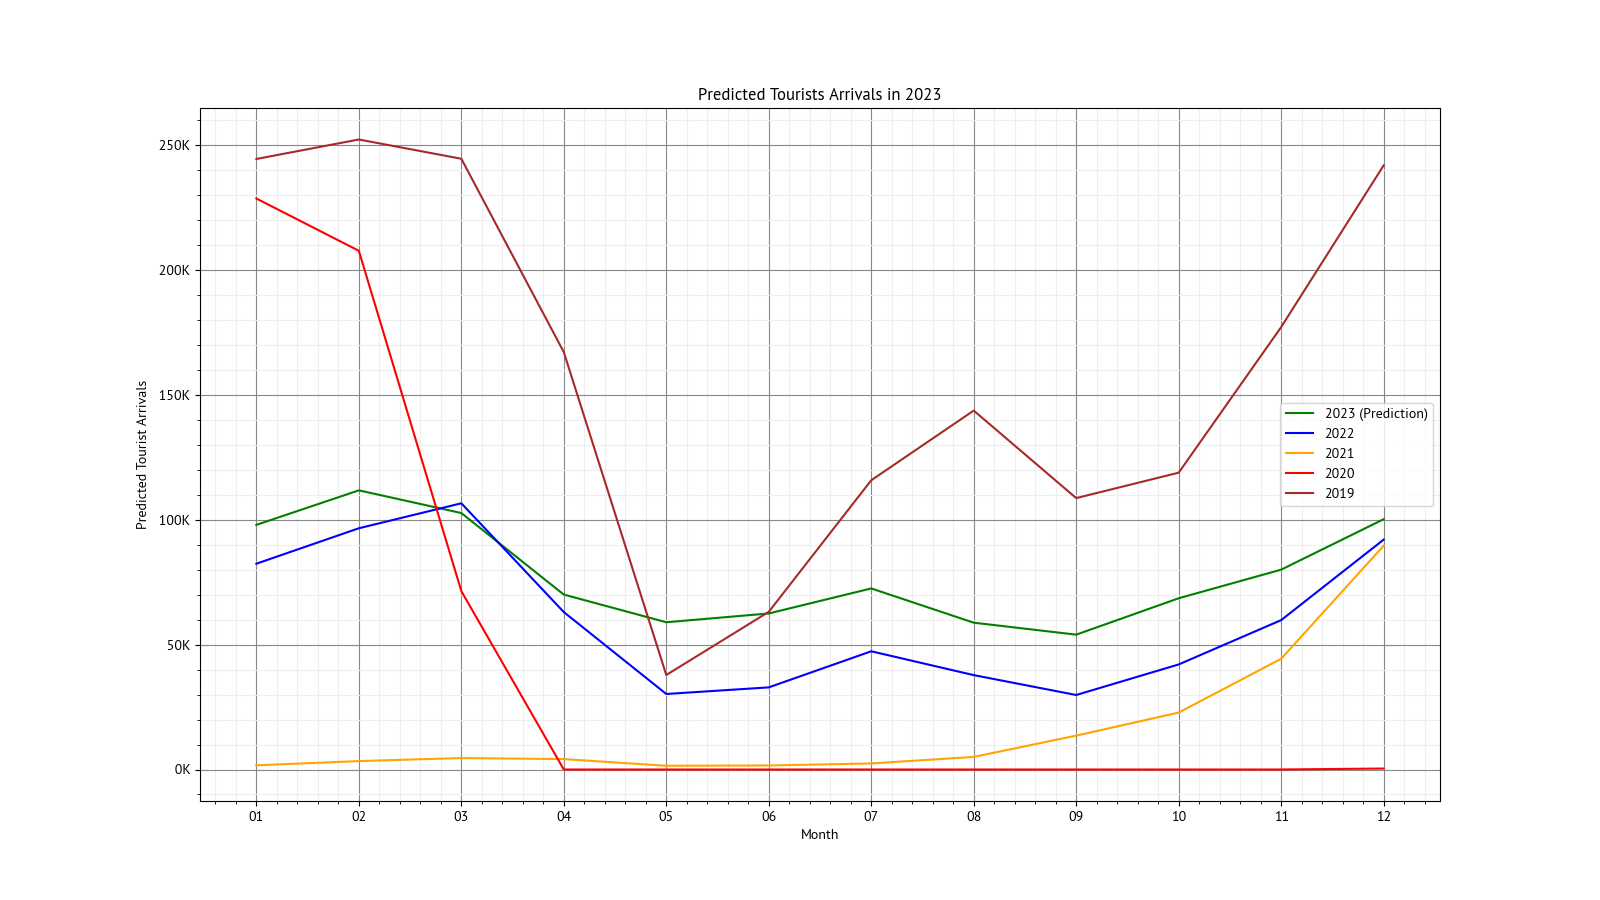
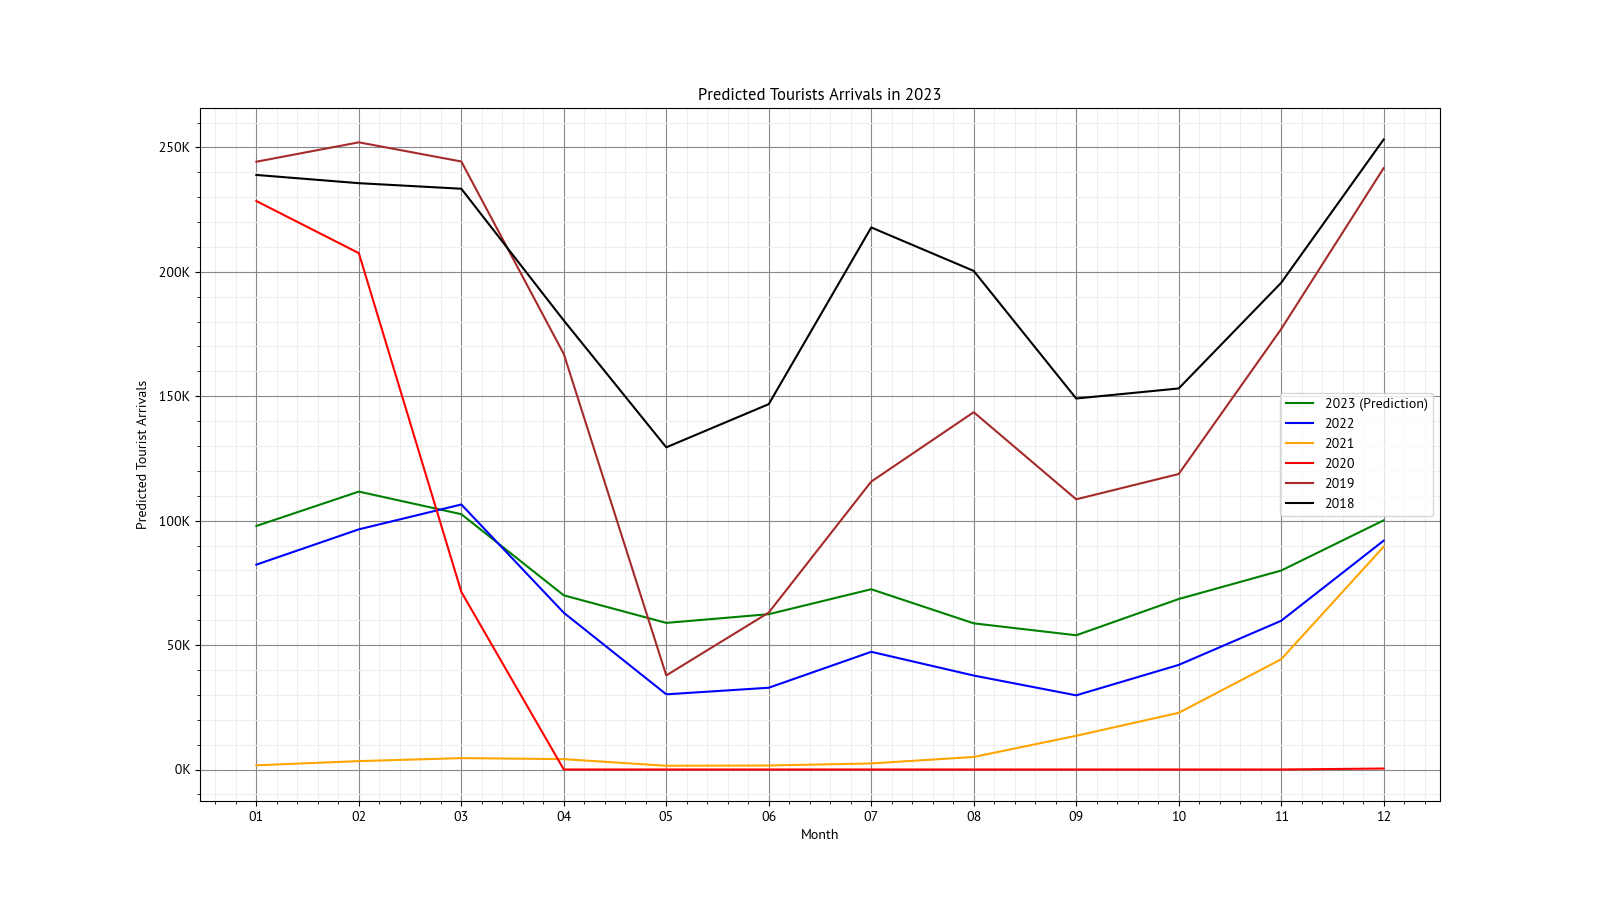
various

diff --git a/src/tlk/Chart.py b/src/tlk/Chart.py
@@ -1,8 +1,8 @@
 import os
 
-from matplotlib import rcParams
 import matplotlib.pyplot as plt
 import matplotlib.ticker as tk
+from matplotlib import rcParams
 from utils import Log
 
 log = Log('Predictor')
@@ -17,6 +17,7 @@ ANNOTATIONS = {
 }
 
 rcParams['font.family'] = 'PT Sans'
+
 
 class GenericChart:
     def __init__(self, data):
@@ -51,7 +52,7 @@ class GenericChart:
         for i in range(n):
             xi = x[i]
             yi = y[i]
-            
+
             for xi_a, label in ANNOTATIONS.items():
                 if xi == xi_a:
                     plt.gca().annotate(
@@ -59,27 +60,21 @@ class GenericChart:
                         xy=(i, yi),
                         xycoords='data',
                         xytext=(i, yi),
-
                         color="#f80",
-                        
                         textcoords='data',
                         horizontalalignment='center',
                         verticalalignment='top',
-
-                )
+                    )
 
     @property
     def png_file_path(self):
-        return os.path.join(
-            'charts',
-            self.__class__.__name__  + '.png'
-        )
+        return os.path.join('charts', self.__class__.__name__ + '.png')
 
     def save(self):
-        
+
         plt.figure(figsize=DEFAULT_FIGSIZE)
         self.draw()
- 
+
         plt.title(self.title)
         plt.xlabel(self.xlabel)
         plt.ylabel(self.ylabel)
@@ -131,14 +126,13 @@ class ActualAndPrediction(GenericChart):
     def title(self):
         return 'Actual & Predicted'
 
-    
     @property
     def ylabel(self):
         return 'Tourist Arrivals'
 
     def draw(self):
         (plt_x, y, yhat) = self.filtered_data
-        
+
         plt.gca().get_yaxis().set_major_formatter(
             tk.FuncFormatter(lambda x, p: f'{x / 1000.0 : .0f}K'),
         )
@@ -146,6 +140,7 @@ class ActualAndPrediction(GenericChart):
         plt.plot(plt_x, y, 'b', label='Actual')
         plt.plot(plt_x, yhat, 'g', label='Prediction')
         GenericChart.annotate(plt_x, y)
+
 
 class Error(GenericChart):
     BASE = 2
@@ -156,7 +151,6 @@ class Error(GenericChart):
         return 'Model Error Ratio (Actual / Predicted)'
 
     @property
-
     def ylabel(self):
         return 'Model Error Ratio (Actual / Predicted)'
 
@@ -209,12 +203,12 @@ class Model(GenericChart):
 
     @property
     def xlabel(self):
-        return 'Months Ago'   
+        return 'Months Ago'
 
     @property
     def ylabel(self):
-        return 'Model Weight'   
-    
+        return 'Model Weight'
+
     @property
     def xticks(self):
         (_, M) = self.data
@@ -232,10 +226,10 @@ class Predict2023(GenericChart):
     def png_file_path(self):
         return os.path.join(
             'charts',
-            self.__class__.__name__ + '.' + str(self.compare) + '.png'
+            self.__class__.__name__ + '.' + str(self.compare) + '.png',
         )
 
-    def __init__(self, data, compare = True):
+    def __init__(self, data, compare=True):
         GenericChart.__init__(self, data)
         self.compare = compare
 
@@ -251,25 +245,23 @@ class Predict2023(GenericChart):
     def ylabel(self):
         return 'Predicted Tourist Arrivals'
 
-
     def draw(self):
         x = self.xticks
         y_list = self.filtered_data
 
         plt.plot(x, y_list[0], 'g', label='2023 (Prediction)')
-        
+
         if self.compare:
-            colors = ['blue', 'orange', 'red', 'brown']        
+            colors = ['blue', 'orange', 'red', 'brown', 'black']
             for i in range(len(y_list) - 1):
-                plt.plot(x, y_list[i+1], colors[i], label=str(2023 - i - 1))
-            
+                plt.plot(x, y_list[i + 1], colors[i], label=str(2023 - i - 1))
+
             plt.gca().get_yaxis().set_major_formatter(
                 tk.FuncFormatter(lambda x, p: f'{x / 1000.0 : .0f}K'),
             )
 
 
 class Predict2023Cumulative(Predict2023):
-
     @property
     def title(self):
         return 'Predicted Cumulative Tourists Arrivals in 2023'
@@ -285,9 +277,8 @@ class Predict2023Cumulative(Predict2023):
         for y in y_list:
             cum = []
             cum_yi = 0
-            for yi  in y:
-                cum_yi  += yi
+            for yi in y:
+                cum_yi += yi
                 cum.append(cum_yi)
             cum_list.append(cum)
         return cum_list
-

diff --git a/src/tlk/Predictor.py b/src/tlk/Predictor.py
@@ -55,20 +55,18 @@ class Predictor:
             xi = np.array(xi[1:].tolist() + [yhati])
             month = i + 2
             date = f'{month:02d}'
-            
+
             x_2023.append(date)
             y_2023.append(yhati)
 
         y_list = [y_2023]
-        for i in range(1, 5):
-            y_his = y[-12*i - 1: -12 *(i - 1) - 1]
+        for i in range(1, 5 + 1):
+            y_his = y[-12 * i - 1: -12 * (i - 1) - 1]
             print(i, y_his)
             y_list.append(y_his)
 
-        
-
         Chart.Predict2023(y_list, compare=False).save()
-        
+
         Chart.Predict2023(y_list).save()
         Chart.Predict2023Cumulative(y_list).save()
 
@@ -88,4 +86,3 @@ if __name__ == '__main__':
 
     Chart.LastDecadeActualAndPrediction(prediction_data).save()
     Chart.LastDecadeError(prediction_data).save()
-
